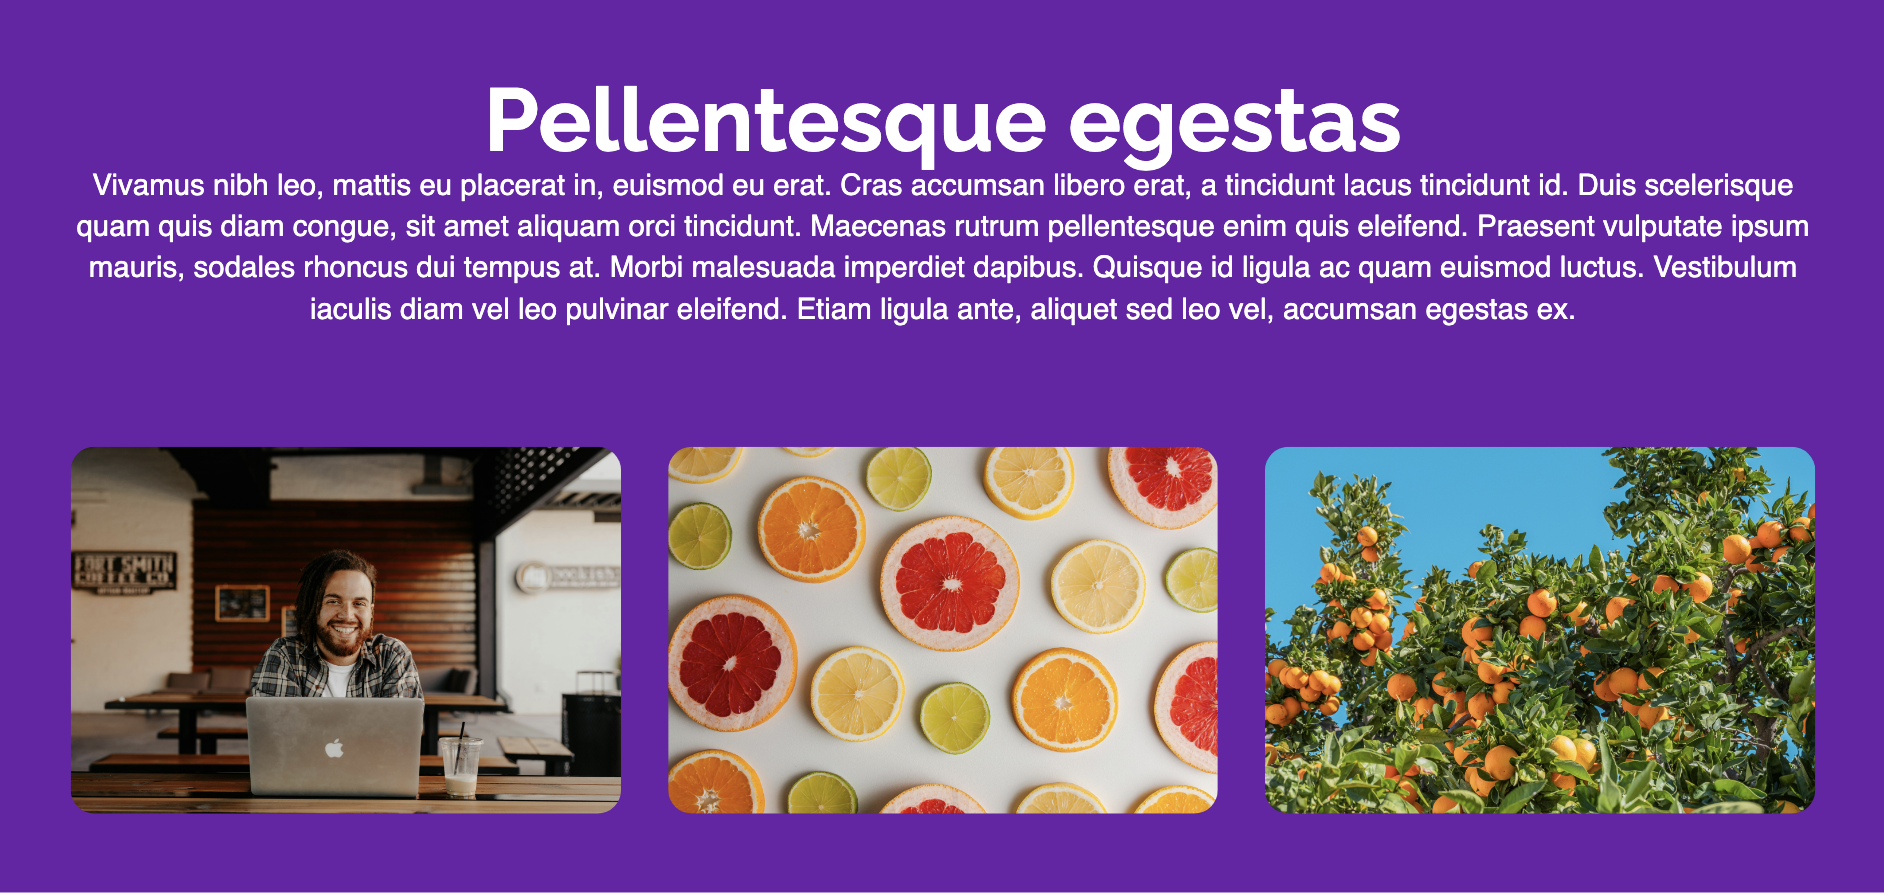
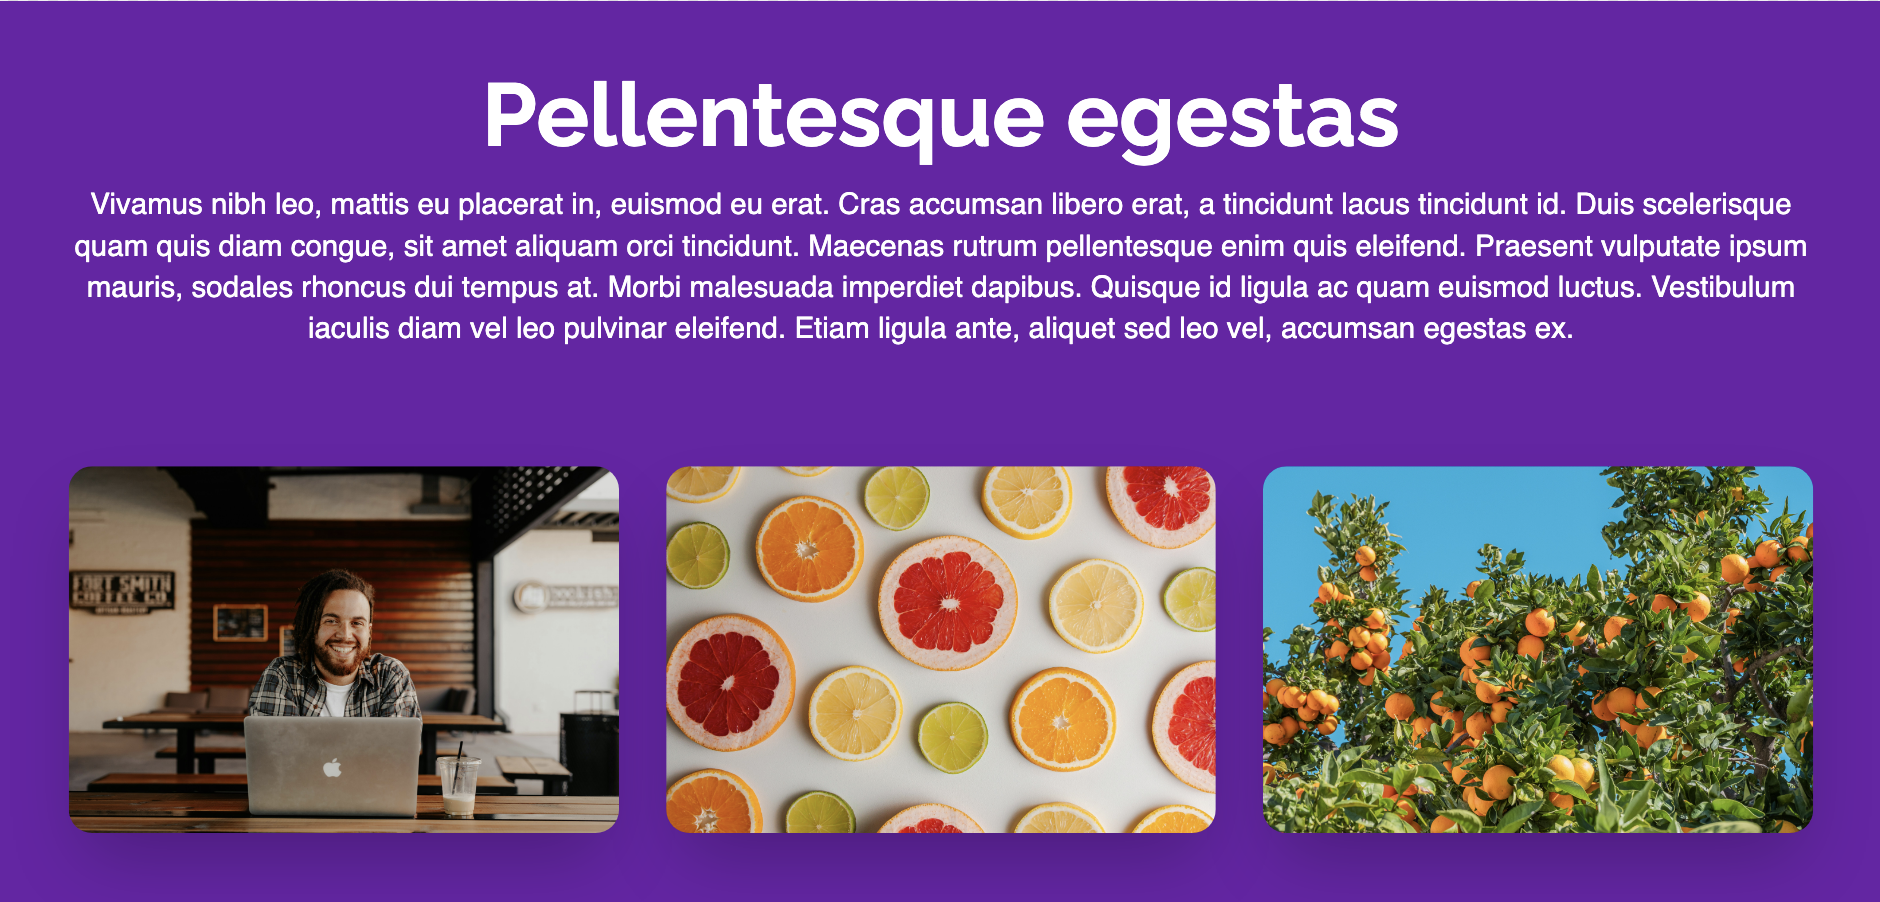
update screenshots and RTE, add global css for RTE

diff --git a/prismicio-types.d.ts b/prismicio-types.d.ts
@@ -615,7 +615,7 @@ export interface TextBlockSliceTextGridWithHeadingItem {
 }
 
 /**
- * Text Grid With Heading variation for TextBlock Slice
+ * Text Grid with Heading variation for TextBlock Slice
  *
  * - **API ID**: `textGridWithHeading`
  * - **Description**: Default
@@ -761,7 +761,7 @@ export interface TextBlockSliceTextGridWithButtonItem {
 }
 
 /**
- * Text Grid With Button variation for TextBlock Slice
+ * Text Grid with Button variation for TextBlock Slice
  *
  * - **API ID**: `textGridWithButton`
  * - **Description**: Default
@@ -878,7 +878,7 @@ export interface TextBlockSliceTextBlockWithButtonPrimary {
 }
 
 /**
- * Text Block With Button variation for TextBlock Slice
+ * Text Block with Button variation for TextBlock Slice
  *
  * - **API ID**: `textBlockWithButton`
  * - **Description**: Default
